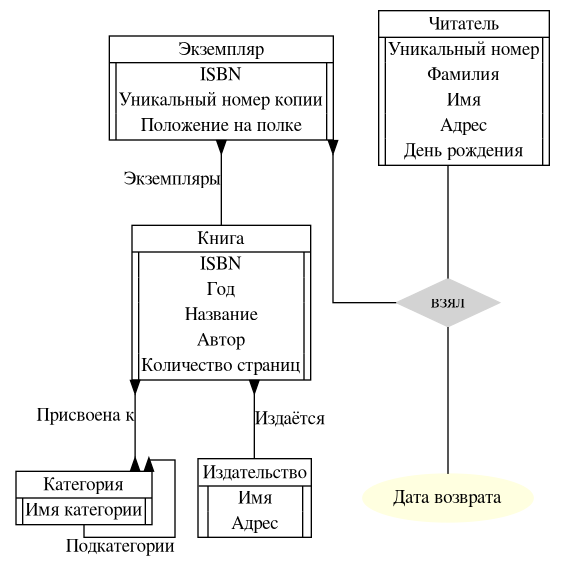
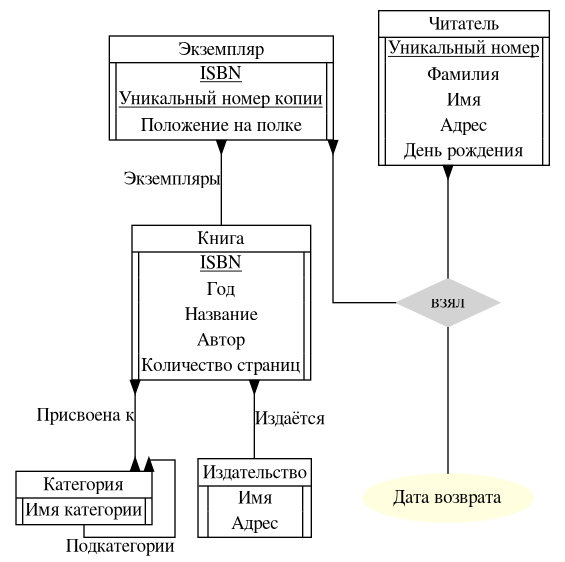
fix many relationships

diff --git a/Practice 2/Костя Борисов/Задание2.md b/Practice 2/Костя Борисов/Задание2.md
@@ -18,3 +18,5 @@
 Смоделируйте E/R-модель в виде E/R диаграммы.
 
 ![Схема](task3.png)
+
+PS: тут у меня в некоторых местах перемешаны два стиля ER диаграмм, чтобы не рисовать 20 кружков для каждого атрибута.
